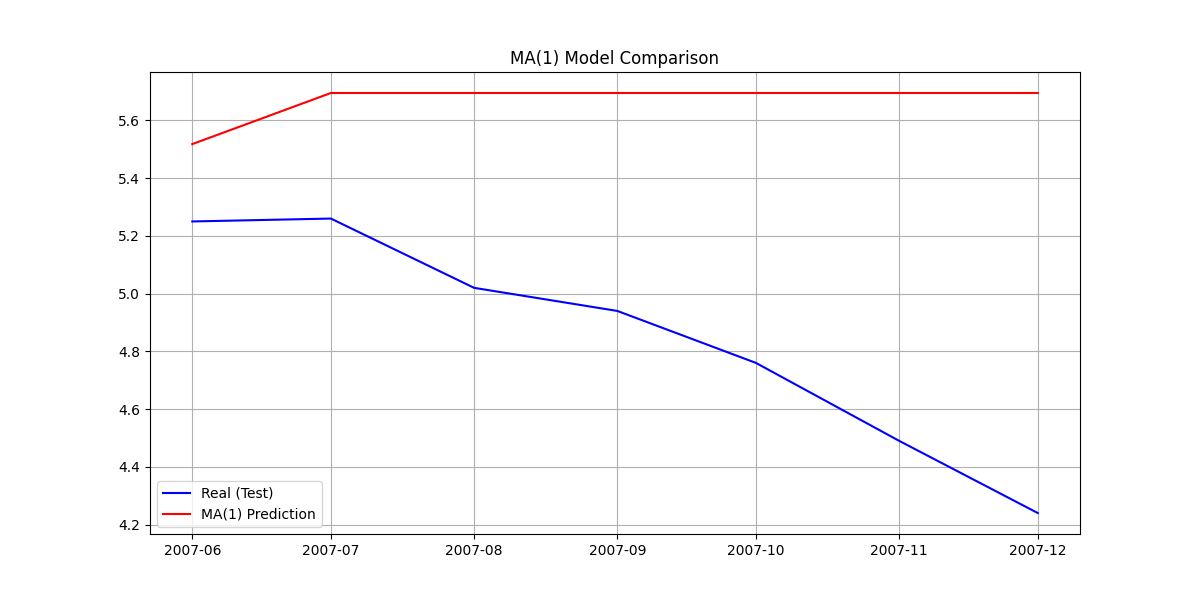
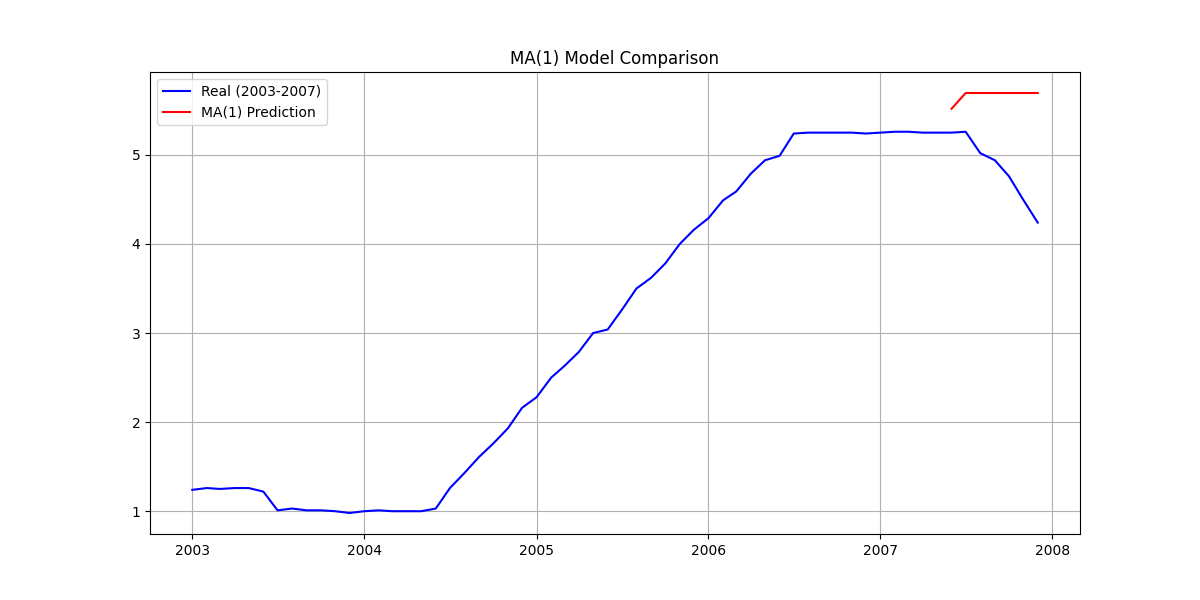
homework_5 дополнительное тестовое задание преподавателя выполнено

diff --git a/homework_5/ma-test.py b/homework_5/ma-test.py
@@ -12,7 +12,8 @@ import os
 # Suppress warnings
 warnings.filterwarnings("ignore")
 
-def train_and_plot(q, train_data, test_data):
+
+def train_and_plot(q, train_data, test_data, df):
     """
     Функция для обучения модели и построения графика в отдельном процессе.
     """
@@ -26,32 +27,34 @@ def train_and_plot(q, train_data, test_data):
         start = test_data.index[0]
         end = test_data.index[-1]
         predictions = res.predict(start=start, end=end)
-        
+
         # Расчет MSE
         mse = ((predictions - test_data) ** 2).mean()
 
         # Построение графика
         # Используем объектный интерфейс matplotlib для безопасности в процессах
         fig, ax = plt.subplots(figsize=(12, 6))
-        ax.plot(test_data.index, test_data, label='Real (Test)', color='blue')
+        # Ограничение графика данными с 2003 по 2007 год
+        filtered_df = df.loc['2003':'2007']
+        ax.plot(filtered_df.index, filtered_df, label='Real (2003-2007)', color='blue')
         ax.plot(test_data.index, predictions, label=f'MA({q}) Prediction', color='red')
         ax.set_title(f'MA({q}) Model Comparison')
         ax.legend()
         ax.grid(True)
-        
+
         # Сохранение графика
         plot_filename = f'ma-test_{q}_plot.png'
-        # Путь сохранения относительно текущей директории запуска. 
+        # Путь сохранения относительно текущей директории запуска.
         # Если запускаем из корня, сохраняем в homework_5/.
         # Но чтобы было универсально, проверим, где мы.
         if os.path.exists('homework_5'):
-             save_path = f'homework_5/{plot_filename}'
+            save_path = f'homework_5/{plot_filename}'
         else:
-             save_path = plot_filename
-             
+            save_path = plot_filename
+
         fig.savefig(save_path)
         plt.close(fig)
-        
+
         description = ""
         if q == 1:
             description = "Модель MA(1) учитывает только одну предыдущую ошибку. График, вероятно, будет слабо повторять динамику, сглаживая ряд.\n\n"
@@ -72,6 +75,7 @@ def train_and_plot(q, train_data, test_data):
             'error': str(e),
             'success': False
         }
+
 
 def main():
     # 1. Загрузка данных
@@ -105,19 +109,19 @@ def main():
 
     # Список моделей MA(q)
     qs = [1, 2, 4, 40, 100]
-    
+
     # Параллельное выполнение
     results = []
     # Используем ProcessPoolExecutor для распараллеливания CPU-intensive задач
     with ProcessPoolExecutor() as executor:
         # map возвращает результаты в том же порядке, что и входные аргументы
-        futures = executor.map(train_and_plot, qs, [train]*len(qs), [test]*len(qs))
+        futures = executor.map(train_and_plot, qs, [train] * len(qs), [test] * len(qs), [df] * len(qs))
         results = list(futures)
 
     # Запись результатов в файл
     # Определяем путь к RESULT.md
     result_path = 'homework_5/RESULT_TEST.md' if os.path.exists('homework_5') else 'RESULT_TEST.md'
-    
+
     with open(result_path, 'w', encoding='utf-8') as f:
         f.write("# Результаты моделирования MA-процессов\n\n")
         f.write("Данные ограничены периодом до 2008 года.\n")
@@ -139,8 +143,10 @@ def main():
 
         f.write("## Общие выводы\n\n")
         f.write("С увеличением порядка q модель получает больше информации о прошлых шоках (ошибках).\n")
-        f.write("Ожидается, что при увеличении q качество подгонки может улучшаться до определенного момента, но слишком большое q может усложнить модель.\n")
+        f.write(
+            "Ожидается, что при увеличении q качество подгонки может улучшаться до определенного момента, но слишком большое q может усложнить модель.\n")
         f.write("Визуально нужно оценить, насколько красная линия близка к синей.\n")
+
 
 if __name__ == '__main__':
     main()
